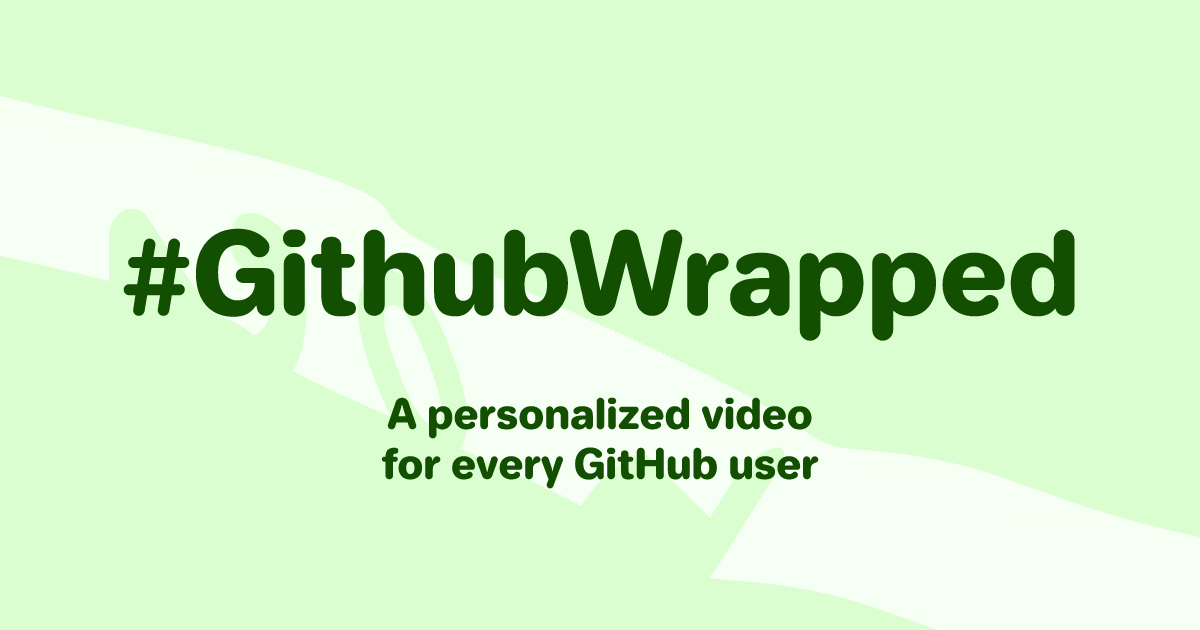
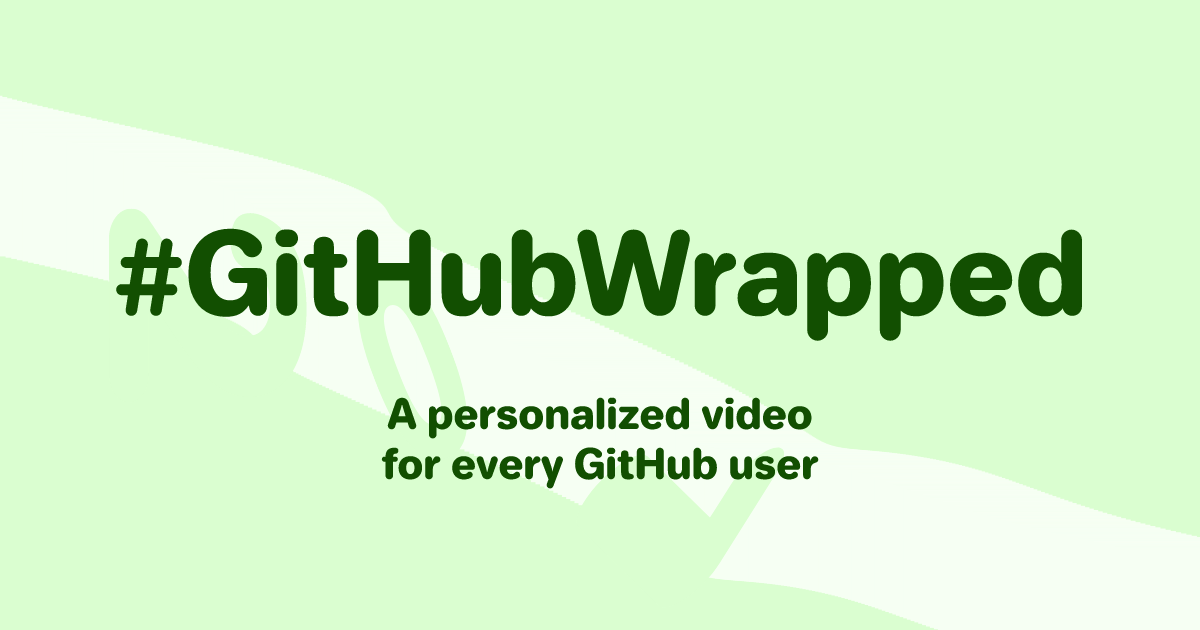
capitalize GitHub

Changed region(s): [[0.0925, 0.3619, 0.925, 0.5429]]

diff --git a/remotion/Flashcard.tsx b/remotion/Flashcard.tsx
@@ -31,7 +31,7 @@ export const Flashcard: React.FC = () => {
             fill="#124F01"
           />
           <path
-            d="M138.909 315.874C137.269 315.874 135.885 315.328 134.756 314.235C133.663 313.106 133.116 311.758 133.116 310.191C133.116 309.973 133.153 309.645 133.226 309.208L135.411 295.219H129.182C127.652 295.219 126.341 294.673 125.248 293.58C124.191 292.487 123.663 291.157 123.663 289.591C123.663 288.097 124.191 286.822 125.248 285.766C126.341 284.673 127.652 284.126 129.182 284.126H137.215L139.783 268.007H133.663C132.133 268.007 130.821 267.46 129.728 266.367C128.672 265.274 128.144 263.945 128.144 262.378C128.144 260.885 128.672 259.61 129.728 258.553C130.821 257.46 132.133 256.914 133.663 256.914H141.695L143.827 243.472C144.045 242.124 144.701 240.976 145.794 240.029C146.887 239.045 148.143 238.554 149.564 238.554C151.167 238.554 152.533 239.137 153.662 240.302C154.828 241.432 155.411 242.798 155.411 244.401C155.411 244.765 155.393 245.056 155.356 245.275L153.444 256.914H166.34L168.471 243.472C168.689 242.124 169.345 240.976 170.438 240.029C171.531 239.045 172.769 238.554 174.154 238.554C175.793 238.554 177.177 239.137 178.307 240.302C179.472 241.432 180.055 242.798 180.055 244.401C180.055 244.765 180.037 245.056 180.001 245.275L178.088 256.914H183.771C185.301 256.914 186.594 257.46 187.651 258.553C188.744 259.61 189.29 260.921 189.29 262.488C189.29 264.018 188.744 265.329 187.651 266.422C186.594 267.478 185.301 268.007 183.771 268.007H176.175L173.607 284.126H179.29C180.82 284.126 182.113 284.673 183.17 285.766C184.263 286.822 184.809 288.134 184.809 289.7C184.809 291.194 184.263 292.487 183.17 293.58C182.113 294.673 180.82 295.219 179.29 295.219H171.804L169.236 311.066C169.017 312.414 168.361 313.561 167.269 314.508C166.176 315.419 164.937 315.874 163.553 315.874C161.914 315.874 160.529 315.328 159.4 314.235C158.307 313.106 157.761 311.74 157.761 310.137C157.761 309.736 157.779 309.426 157.815 309.208L160.056 295.219H147.214L144.592 311.066C144.373 312.414 143.717 313.561 142.624 314.508C141.531 315.419 140.293 315.874 138.909 315.874ZM151.531 268.007L148.963 284.126H161.859L164.427 268.007H151.531ZM233.059 316.803C225.737 316.803 219.271 315.128 213.661 311.776C208.087 308.425 203.734 303.525 200.601 297.077C197.468 290.593 195.902 282.833 195.902 273.799C195.902 264.546 197.669 256.531 201.202 249.756C204.736 242.943 209.654 237.734 215.956 234.128C222.258 230.521 229.489 228.718 237.649 228.718C244.28 228.718 250.072 229.811 255.026 231.996C259.98 234.182 264.079 237.224 267.321 241.122C268.013 241.96 268.541 242.943 268.906 244.073C269.27 245.202 269.452 246.349 269.452 247.515C269.452 249.264 268.997 250.903 268.086 252.433C267.212 253.927 266.009 255.129 264.479 256.04C262.986 256.914 261.365 257.351 259.616 257.351C257.795 257.351 256.119 256.896 254.589 255.985C253.059 255.038 251.857 253.817 250.983 252.324C249.598 249.883 247.831 248.043 245.682 246.805C243.533 245.566 240.855 244.947 237.649 244.947C233.97 244.947 230.655 245.912 227.704 247.843C224.754 249.774 222.404 252.797 220.655 256.914C218.943 261.03 218.087 266.222 218.087 272.487C218.087 278.79 218.961 284.017 220.71 288.17C222.459 292.323 224.79 295.401 227.704 297.405C230.619 299.372 233.861 300.356 237.431 300.356C241.183 300.356 244.352 299.591 246.939 298.06C249.562 296.53 251.529 294.509 252.84 291.995C254.152 289.481 254.808 286.786 254.808 283.908V282.979H243.168C241.857 282.979 240.618 282.651 239.453 281.995C238.323 281.303 237.413 280.392 236.721 279.263C236.065 278.097 235.737 276.841 235.737 275.493C235.737 274.181 236.065 272.961 236.721 271.832C237.413 270.702 238.323 269.81 239.453 269.154C240.618 268.462 241.857 268.116 243.168 268.116H264.862C267.958 268.116 270.308 268.935 271.911 270.575C273.55 272.178 274.37 274.527 274.37 277.624V307.186C274.37 308.752 273.969 310.21 273.168 311.557C272.403 312.869 271.346 313.925 269.998 314.727C268.651 315.492 267.193 315.874 265.627 315.874C263.514 315.874 261.656 315.219 260.053 313.907C258.45 312.559 257.449 310.865 257.048 308.825L256.447 305.82H255.9C253.387 309.536 250.363 312.304 246.83 314.126C243.296 315.911 238.706 316.803 233.059 316.803ZM294.26 315.874C292.366 315.874 290.617 315.419 289.014 314.508C287.448 313.561 286.191 312.286 285.244 310.683C284.297 309.08 283.823 307.35 283.823 305.492V263.526C283.823 261.631 284.297 259.901 285.244 258.335C286.191 256.732 287.448 255.457 289.014 254.51C290.617 253.562 292.366 253.089 294.26 253.089C296.118 253.089 297.848 253.562 299.451 254.51C301.054 255.457 302.311 256.732 303.222 258.335C304.169 259.901 304.642 261.631 304.642 263.526V305.492C304.642 307.35 304.169 309.08 303.222 310.683C302.275 312.25 301 313.506 299.397 314.454C297.83 315.401 296.118 315.874 294.26 315.874ZM291.692 247.078C290.126 247.078 288.668 246.696 287.32 245.931C285.973 245.129 284.898 244.054 284.097 242.707C283.332 241.359 282.949 239.902 282.949 238.335C282.949 236.769 283.332 235.311 284.097 233.964C284.898 232.616 285.973 231.559 287.32 230.794C288.668 229.993 290.126 229.592 291.692 229.592H296.828C298.395 229.592 299.852 229.993 301.2 230.794C302.548 231.559 303.604 232.616 304.369 233.964C305.171 235.311 305.571 236.769 305.571 238.335C305.571 239.902 305.171 241.359 304.369 242.707C303.604 244.054 302.548 245.129 301.2 245.931C299.852 246.696 298.395 247.078 296.828 247.078H291.692ZM340.707 316.366C335.899 316.366 332.074 315.565 329.232 313.962C326.391 312.322 324.351 309.918 323.112 306.749C321.873 303.579 321.254 299.499 321.254 294.509V267.788H318.139C316.901 267.788 315.753 267.478 314.697 266.859C313.64 266.24 312.803 265.402 312.183 264.345C311.6 263.289 311.309 262.16 311.309 260.958C311.309 259.027 311.965 257.387 313.276 256.04C314.624 254.692 316.245 254.018 318.139 254.018H321.254V246.313C321.254 243.18 322.201 240.812 324.096 239.209C325.99 237.57 328.431 236.75 331.418 236.75C334.405 236.75 336.809 237.57 338.631 239.209C340.452 240.812 341.363 243.18 341.363 246.313V254.018H347.975C349.213 254.018 350.361 254.327 351.417 254.947C352.474 255.566 353.293 256.404 353.876 257.46C354.496 258.48 354.805 259.61 354.805 260.848C354.805 262.087 354.496 263.234 353.876 264.291C353.293 265.347 352.474 266.203 351.417 266.859C350.361 267.478 349.213 267.788 347.975 267.788H341.855V292.705C341.855 294.891 342.183 296.567 342.838 297.733C343.53 298.898 344.368 299.7 345.352 300.137C346.372 300.574 347.665 300.938 349.232 301.23C353.712 302.068 355.953 304.49 355.953 308.497C355.953 311.521 354.605 313.597 351.909 314.727C349.25 315.82 345.516 316.366 340.707 316.366ZM374.258 315.874C372.364 315.874 370.615 315.419 369.013 314.508C367.446 313.561 366.189 312.286 365.242 310.683C364.295 309.08 363.821 307.35 363.821 305.492V240.029C363.821 238.135 364.295 236.404 365.242 234.838C366.189 233.235 367.446 231.96 369.013 231.013C370.615 230.066 372.364 229.592 374.258 229.592C376.116 229.592 377.847 230.066 379.45 231.013C381.052 231.96 382.309 233.235 383.22 234.838C384.167 236.404 384.641 238.135 384.641 240.029V263.307C386.171 260.138 388.448 257.57 391.471 255.602C394.495 253.635 398.302 252.652 402.892 252.652C410.323 252.652 415.751 254.746 419.175 258.936C422.636 263.125 424.367 268.935 424.367 276.367V305.492C424.367 307.35 423.893 309.08 422.946 310.683C421.999 312.25 420.724 313.506 419.121 314.454C417.554 315.401 415.842 315.874 413.984 315.874C412.09 315.874 410.341 315.419 408.738 314.508C407.172 313.561 405.915 312.286 404.968 310.683C404.021 309.08 403.547 307.35 403.547 305.492V279.646C403.547 275.456 402.655 272.542 400.87 270.903C399.121 269.263 397.081 268.444 394.75 268.444C392.018 268.444 389.65 269.445 387.646 271.449C385.642 273.416 384.641 277.005 384.641 282.214V305.492C384.641 307.35 384.167 309.08 383.22 310.683C382.273 312.25 380.998 313.506 379.395 314.454C377.828 315.401 376.116 315.874 374.258 315.874ZM455.568 316.366C447.954 316.366 442.472 314.235 439.12 309.973C435.769 305.711 434.093 299.955 434.093 292.705V263.526C434.093 261.631 434.567 259.901 435.514 258.335C436.461 256.732 437.718 255.457 439.284 254.51C440.887 253.562 442.636 253.089 444.53 253.089C446.388 253.089 448.118 253.562 449.721 254.51C451.324 255.457 452.581 256.732 453.492 258.335C454.439 259.901 454.912 261.631 454.912 263.526V289.481C454.912 293.671 455.75 296.603 457.426 298.279C459.138 299.955 461.069 300.793 463.218 300.793C466.132 300.793 468.446 299.645 470.158 297.35C471.87 295.019 472.726 291.649 472.726 287.241V263.526C472.726 261.631 473.181 259.901 474.092 258.335C475.039 256.732 476.314 255.457 477.917 254.51C479.52 253.562 481.25 253.089 483.108 253.089C485.003 253.089 486.733 253.562 488.299 254.51C489.902 255.457 491.177 256.732 492.125 258.335C493.072 259.901 493.545 261.631 493.545 263.526V306.257C493.545 308.006 493.108 309.627 492.234 311.12C491.36 312.577 490.176 313.743 488.682 314.617C487.188 315.455 485.549 315.874 483.764 315.874C482.052 315.874 480.449 315.455 478.955 314.617C477.498 313.743 476.333 312.577 475.458 311.12C474.584 309.627 474.147 308.006 474.147 306.257V303.907C472.471 307.623 470.103 310.629 467.043 312.924C464.02 315.219 460.194 316.366 455.568 316.366ZM541.632 316.366C536.787 316.366 532.998 315.601 530.266 314.071C527.534 312.541 525.257 310.647 523.435 308.388C522.962 310.537 521.814 312.322 519.993 313.743C518.171 315.164 516.095 315.874 513.763 315.874C512.051 315.874 510.467 315.455 509.009 314.617C507.552 313.78 506.387 312.632 505.512 311.175C504.674 309.718 504.255 308.115 504.255 306.366V240.029C504.255 238.135 504.729 236.404 505.676 234.838C506.623 233.235 507.88 231.96 509.447 231.013C511.049 230.066 512.798 229.592 514.692 229.592C516.55 229.592 518.281 230.066 519.883 231.013C521.486 231.96 522.743 233.235 523.654 234.838C524.601 236.404 525.075 238.135 525.075 240.029V262.761C526.641 259.883 528.845 257.479 531.686 255.548C534.528 253.617 538.225 252.652 542.779 252.652C548.316 252.652 552.961 254.018 556.713 256.75C560.502 259.482 563.325 263.161 565.183 267.788C567.041 272.414 567.97 277.587 567.97 283.307C567.97 290.01 566.822 295.857 564.527 300.847C562.232 305.838 559.081 309.681 555.074 312.377C551.067 315.036 546.586 316.366 541.632 316.366ZM535.73 302.377C537.807 302.377 539.701 301.74 541.413 300.465C543.125 299.19 544.491 297.223 545.511 294.563C546.531 291.868 547.041 288.498 547.041 284.454C547.041 280.447 546.531 277.168 545.511 274.618C544.491 272.068 543.143 270.229 541.468 269.099C539.828 267.934 537.989 267.351 535.949 267.351C532.451 267.351 529.665 268.772 527.588 271.613C525.548 274.418 524.528 278.698 524.528 284.454C524.528 290.72 525.548 295.274 527.588 298.115C529.665 300.957 532.379 302.377 535.73 302.377ZM599.991 315.874C597.441 315.874 595.055 315.328 592.833 314.235C590.647 313.142 588.789 311.649 587.259 309.754C585.729 307.86 584.709 305.729 584.199 303.361L570.21 241.34C570.064 240.83 569.992 240.047 569.992 238.991C569.992 237.242 570.392 235.658 571.194 234.237C572.032 232.78 573.143 231.65 574.527 230.849C575.911 230.011 577.423 229.592 579.062 229.592C581.576 229.592 583.744 230.321 585.565 231.778C587.423 233.235 588.57 235.056 589.008 237.242L600.428 290.738L613.98 238.335C614.635 235.676 616.02 233.563 618.133 231.996C620.282 230.394 622.959 229.592 626.165 229.592C629.371 229.592 632.03 230.394 634.143 231.996C636.292 233.563 637.695 235.676 638.351 238.335L651.902 290.738L663.323 237.242C663.76 235.056 664.889 233.235 666.711 231.778C668.569 230.321 670.754 229.592 673.268 229.592C674.907 229.592 676.419 230.011 677.803 230.849C679.188 231.65 680.281 232.78 681.082 234.237C681.92 235.658 682.339 237.242 682.339 238.991C682.339 240.047 682.266 240.83 682.12 241.34L668.131 303.361C667.621 305.729 666.601 307.86 665.071 309.754C663.541 311.649 661.665 313.142 659.443 314.235C657.257 315.328 654.889 315.874 652.339 315.874C649.862 315.874 647.531 315.364 645.345 314.344C643.196 313.288 641.356 311.849 639.826 310.027C638.296 308.206 637.24 306.13 636.657 303.798L626.165 262.269L615.619 303.798C615.036 306.13 613.98 308.206 612.45 310.027C610.956 311.849 609.116 313.288 606.931 314.344C604.781 315.364 602.468 315.874 599.991 315.874ZM697.639 315.874C695.745 315.874 693.996 315.419 692.393 314.508C690.827 313.561 689.57 312.286 688.623 310.683C687.676 309.08 687.202 307.35 687.202 305.492V262.761C687.202 261.012 687.639 259.409 688.513 257.952C689.388 256.459 690.553 255.275 692.011 254.4C693.504 253.526 695.107 253.089 696.819 253.089C698.604 253.089 700.244 253.526 701.737 254.4C703.231 255.275 704.415 256.459 705.289 257.952C706.163 259.409 706.6 261.012 706.6 262.761V265.438H707.038C708.568 261.103 710.207 257.97 711.956 256.04C713.704 254.072 716.017 253.089 718.895 253.089C721.227 253.089 723.121 253.581 724.578 254.564C726.035 255.511 727.074 256.677 727.693 258.061C728.312 259.446 728.622 260.812 728.622 262.16C728.622 264.309 727.839 266.185 726.272 267.788C724.706 269.354 722.575 270.429 719.879 271.012C716.054 271.923 713.121 273.781 711.081 276.586C709.041 279.354 708.021 282.87 708.021 287.132V305.492C708.021 307.35 707.548 309.08 706.6 310.683C705.653 312.25 704.378 313.506 702.775 314.454C701.209 315.401 699.497 315.874 697.639 315.874ZM750.916 316.366C747.091 316.366 743.594 315.656 740.425 314.235C737.256 312.778 734.742 310.665 732.884 307.896C731.026 305.091 730.097 301.758 730.097 297.897C730.097 292.396 731.645 288.188 734.742 285.274C737.875 282.36 741.718 280.429 746.272 279.482C750.862 278.535 755.998 278.061 761.681 278.061H769.277C769.277 275.693 769.094 273.781 768.73 272.323C768.366 270.83 767.564 269.646 766.326 268.772C765.087 267.897 763.229 267.46 760.752 267.46C758.785 267.46 757.2 267.788 755.998 268.444C754.833 269.063 753.667 269.955 752.501 271.121C751.372 272.251 750.279 273.107 749.222 273.689C748.202 274.236 746.873 274.509 745.233 274.509C743.594 274.509 742.082 274.145 740.698 273.416C739.35 272.688 738.276 271.686 737.474 270.411C736.673 269.099 736.272 267.624 736.272 265.985C736.272 263.034 737.456 260.557 739.824 258.553C742.192 256.55 745.252 255.074 749.004 254.127C752.793 253.143 756.781 252.652 760.971 252.652C770.224 252.652 777.291 254.637 782.173 258.608C787.09 262.542 789.549 268.954 789.549 277.842V305.929C789.549 307.678 789.112 309.317 788.238 310.847C787.364 312.377 786.162 313.597 784.631 314.508C783.101 315.419 781.444 315.874 779.659 315.874C777.218 315.874 775.087 315.091 773.266 313.525C771.481 311.958 770.406 309.991 770.042 307.623C767.747 310.792 765.051 313.051 761.954 314.399C758.858 315.71 755.179 316.366 750.916 316.366ZM757.747 303.142C760.188 303.142 762.282 302.578 764.031 301.448C765.816 300.283 767.146 298.716 768.02 296.749C768.931 294.782 769.386 292.578 769.386 290.137V289.154H762.774C754.578 289.154 750.479 291.649 750.479 296.64C750.479 298.68 751.153 300.283 752.501 301.448C753.885 302.578 755.634 303.142 757.747 303.142ZM810.205 340.737C808.31 340.737 806.562 340.264 804.959 339.316C803.392 338.406 802.136 337.149 801.188 335.546C800.241 333.943 799.768 332.213 799.768 330.355V262.651C799.768 260.903 800.187 259.3 801.025 257.843C801.899 256.386 803.065 255.238 804.522 254.4C805.979 253.526 807.564 253.089 809.276 253.089C811.061 253.089 812.682 253.526 814.139 254.4C815.633 255.238 816.798 256.386 817.636 257.843C818.511 259.3 818.948 260.903 818.948 262.651V263.307C821.388 259.919 824.102 257.296 827.09 255.439C830.113 253.581 834.029 252.652 838.838 252.652C844.193 252.652 848.71 254.018 852.39 256.75C856.105 259.482 858.874 263.161 860.695 267.788C862.553 272.414 863.482 277.587 863.482 283.307C863.482 290.046 862.28 295.911 859.876 300.902C857.508 305.893 854.211 309.718 849.985 312.377C845.796 315.036 841.005 316.366 835.614 316.366C829.822 316.366 824.813 314.454 820.587 310.629V330.355C820.587 332.213 820.113 333.925 819.166 335.491C818.219 337.094 816.944 338.369 815.341 339.316C813.775 340.264 812.063 340.737 810.205 340.737ZM831.242 302.377C833.319 302.377 835.213 301.74 836.925 300.465C838.638 299.19 840.004 297.223 841.024 294.563C842.044 291.868 842.554 288.498 842.554 284.454C842.554 278.553 841.534 274.236 839.494 271.504C837.454 268.735 834.849 267.351 831.68 267.351C828.182 267.351 825.359 268.772 823.21 271.613C821.097 274.454 820.041 278.735 820.041 284.454C820.041 290.72 821.061 295.274 823.101 298.115C825.177 300.957 827.891 302.377 831.242 302.377ZM882.771 340.737C880.877 340.737 879.128 340.264 877.526 339.316C875.959 338.406 874.702 337.149 873.755 335.546C872.808 333.943 872.334 332.213 872.334 330.355V262.651C872.334 260.903 872.753 259.3 873.591 257.843C874.466 256.386 875.631 255.238 877.088 254.4C878.546 253.526 880.13 253.089 881.842 253.089C883.627 253.089 885.249 253.526 886.706 254.4C888.199 255.238 889.365 256.386 890.203 257.843C891.077 259.3 891.514 260.903 891.514 262.651V263.307C893.955 259.919 896.669 257.296 899.656 255.439C902.68 253.581 906.596 252.652 911.405 252.652C916.76 252.652 921.277 254.018 924.956 256.75C928.672 259.482 931.441 263.161 933.262 267.788C935.12 272.414 936.049 277.587 936.049 283.307C936.049 290.046 934.847 295.911 932.442 300.902C930.074 305.893 926.778 309.718 922.552 312.377C918.363 315.036 913.572 316.366 908.181 316.366C902.388 316.366 897.379 314.454 893.154 310.629V330.355C893.154 332.213 892.68 333.925 891.733 335.491C890.786 337.094 889.511 338.369 887.908 339.316C886.341 340.264 884.629 340.737 882.771 340.737ZM903.809 302.377C905.886 302.377 907.78 301.74 909.492 300.465C911.204 299.19 912.57 297.223 913.59 294.563C914.61 291.868 915.12 288.498 915.12 284.454C915.12 278.553 914.1 274.236 912.06 271.504C910.02 268.735 907.416 267.351 904.246 267.351C900.749 267.351 897.926 268.772 895.776 271.613C893.664 274.454 892.607 278.735 892.607 284.454C892.607 290.72 893.627 295.274 895.667 298.115C897.744 300.957 900.458 302.377 903.809 302.377ZM974.573 316.366C968.452 316.366 962.952 315.055 958.07 312.432C953.225 309.809 949.418 306.111 946.65 301.339C943.917 296.53 942.551 290.975 942.551 284.673C942.551 278.48 943.826 272.961 946.376 268.116C948.963 263.271 952.642 259.482 957.414 256.75C962.187 254.018 967.76 252.652 974.135 252.652C980.438 252.652 985.902 253.963 990.528 256.586C995.155 259.172 998.67 262.579 1001.07 266.804C1003.48 270.994 1004.68 275.456 1004.68 280.192C1004.68 283.58 1004.01 286.075 1002.66 287.678C1001.31 289.245 998.925 290.028 995.501 290.028H962.496C962.897 293.525 964.208 296.348 966.431 298.498C968.653 300.611 971.512 301.667 975.01 301.667C977.123 301.667 978.835 301.339 980.146 300.683C981.494 299.991 982.769 299.062 983.971 297.897C984.882 296.986 985.811 296.275 986.758 295.765C987.742 295.219 988.871 294.946 990.146 294.946C991.64 294.946 993.024 295.328 994.299 296.093C995.61 296.858 996.63 297.915 997.359 299.263C998.124 300.574 998.506 302.013 998.506 303.579C998.506 306.166 997.395 308.406 995.173 310.301C993.133 312.013 990.237 313.452 986.485 314.617C982.769 315.783 978.798 316.366 974.573 316.366ZM984.627 277.842C984.481 274.309 983.425 271.522 981.458 269.482C979.49 267.442 976.94 266.422 973.808 266.422C970.675 266.422 968.125 267.442 966.157 269.482C964.19 271.486 963.006 274.272 962.606 277.842H984.627ZM1037.08 316.366C1032.13 316.366 1027.65 315.036 1023.64 312.377C1019.64 309.681 1016.48 305.838 1014.19 300.847C1011.89 295.857 1010.75 290.01 1010.75 283.307C1010.75 277.587 1011.68 272.414 1013.53 267.788C1015.39 263.161 1018.2 259.482 1021.95 256.75C1025.74 254.018 1030.4 252.652 1035.94 252.652C1040.49 252.652 1044.19 253.617 1047.03 255.548C1049.87 257.479 1052.08 259.883 1053.64 262.761V240.029C1053.64 238.135 1054.1 236.404 1055.01 234.838C1055.95 233.235 1057.23 231.96 1058.83 231.013C1060.44 230.066 1062.17 229.592 1064.02 229.592C1065.92 229.592 1067.65 230.066 1069.22 231.013C1070.82 231.96 1072.09 233.235 1073.04 234.838C1073.99 236.404 1074.46 238.135 1074.46 240.029V306.366C1074.46 308.115 1074.02 309.718 1073.15 311.175C1072.31 312.632 1071.16 313.78 1069.71 314.617C1068.25 315.455 1066.67 315.874 1064.95 315.874C1062.62 315.874 1060.55 315.164 1058.72 313.743C1056.9 312.322 1055.77 310.537 1055.34 308.388C1054.17 309.809 1052.88 311.084 1051.46 312.213C1050.04 313.342 1048.12 314.308 1045.72 315.109C1043.35 315.947 1040.47 316.366 1037.08 316.366ZM1042.99 302.377C1046.34 302.377 1049.03 300.957 1051.07 298.115C1053.15 295.274 1054.19 290.72 1054.19 284.454C1054.19 278.698 1053.15 274.418 1051.07 271.613C1049.03 268.772 1046.26 267.351 1042.77 267.351C1040.73 267.351 1038.87 267.934 1037.19 269.099C1035.55 270.229 1034.23 272.068 1033.21 274.618C1032.19 277.168 1031.68 280.447 1031.68 284.454C1031.68 288.498 1032.19 291.868 1033.21 294.563C1034.23 297.223 1035.59 299.19 1037.3 300.465C1039.02 301.74 1040.91 302.377 1042.99 302.377Z"
+            d="M131.422 315.874C129.783 315.874 128.399 315.328 127.269 314.235C126.177 313.106 125.63 311.758 125.63 310.191C125.63 309.973 125.667 309.645 125.739 309.208L127.925 295.219H121.696C120.166 295.219 118.854 294.673 117.762 293.58C116.705 292.487 116.177 291.157 116.177 289.591C116.177 288.097 116.705 286.822 117.762 285.766C118.854 284.673 120.166 284.126 121.696 284.126H129.728L132.297 268.007H126.177C124.647 268.007 123.335 267.46 122.242 266.367C121.186 265.274 120.658 263.945 120.658 262.378C120.658 260.885 121.186 259.61 122.242 258.553C123.335 257.46 124.647 256.914 126.177 256.914H134.209L136.34 243.472C136.559 242.124 137.215 240.976 138.307 240.029C139.4 239.045 140.657 238.554 142.078 238.554C143.681 238.554 145.047 239.137 146.176 240.302C147.342 241.432 147.925 242.798 147.925 244.401C147.925 244.765 147.907 245.056 147.87 245.275L145.958 256.914H158.853L160.985 243.472C161.203 242.124 161.859 240.976 162.952 240.029C164.045 239.045 165.283 238.554 166.668 238.554C168.307 238.554 169.691 239.137 170.82 240.302C171.986 241.432 172.569 242.798 172.569 244.401C172.569 244.765 172.551 245.056 172.514 245.275L170.602 256.914H176.285C177.815 256.914 179.108 257.46 180.164 258.553C181.257 259.61 181.804 260.921 181.804 262.488C181.804 264.018 181.257 265.329 180.164 266.422C179.108 267.478 177.815 268.007 176.285 268.007H168.689L166.121 284.126H171.804C173.334 284.126 174.627 284.673 175.684 285.766C176.777 286.822 177.323 288.134 177.323 289.7C177.323 291.194 176.777 292.487 175.684 293.58C174.627 294.673 173.334 295.219 171.804 295.219H164.318L161.75 311.066C161.531 312.414 160.875 313.561 159.782 314.508C158.69 315.419 157.451 315.874 156.067 315.874C154.427 315.874 153.043 315.328 151.914 314.235C150.821 313.106 150.274 311.74 150.274 310.137C150.274 309.736 150.293 309.426 150.329 309.208L152.569 295.219H139.728L137.105 311.066C136.887 312.414 136.231 313.561 135.138 314.508C134.045 315.419 132.807 315.874 131.422 315.874ZM144.045 268.007L141.477 284.126H154.373L156.941 268.007H144.045ZM225.573 316.803C218.251 316.803 211.785 315.128 206.175 311.776C200.601 308.425 196.248 303.525 193.115 297.077C189.982 290.593 188.416 282.833 188.416 273.799C188.416 264.546 190.182 256.531 193.716 249.756C197.25 242.943 202.168 237.734 208.47 234.128C214.772 230.521 222.003 228.718 230.163 228.718C236.793 228.718 242.586 229.811 247.54 231.996C252.494 234.182 256.593 237.224 259.835 241.122C260.527 241.96 261.055 242.943 261.419 244.073C261.784 245.202 261.966 246.349 261.966 247.515C261.966 249.264 261.51 250.903 260.6 252.433C259.725 253.927 258.523 255.129 256.993 256.04C255.5 256.914 253.879 257.351 252.13 257.351C250.309 257.351 248.633 256.896 247.103 255.985C245.573 255.038 244.371 253.817 243.496 252.324C242.112 249.883 240.345 248.043 238.196 246.805C236.047 245.566 233.369 244.947 230.163 244.947C226.484 244.947 223.169 245.912 220.218 247.843C217.267 249.774 214.918 252.797 213.169 256.914C211.457 261.03 210.601 266.222 210.601 272.487C210.601 278.79 211.475 284.017 213.224 288.17C214.972 292.323 217.304 295.401 220.218 297.405C223.133 299.372 226.375 300.356 229.945 300.356C233.697 300.356 236.866 299.591 239.453 298.06C242.076 296.53 244.043 294.509 245.354 291.995C246.666 289.481 247.321 286.786 247.321 283.908V282.979H235.682C234.371 282.979 233.132 282.651 231.967 281.995C230.837 281.303 229.927 280.392 229.234 279.263C228.579 278.097 228.251 276.841 228.251 275.493C228.251 274.181 228.579 272.961 229.234 271.832C229.927 270.702 230.837 269.81 231.967 269.154C233.132 268.462 234.371 268.116 235.682 268.116H257.376C260.472 268.116 262.822 268.935 264.425 270.575C266.064 272.178 266.884 274.527 266.884 277.624V307.186C266.884 308.752 266.483 310.21 265.682 311.557C264.917 312.869 263.86 313.925 262.512 314.727C261.164 315.492 259.707 315.874 258.141 315.874C256.028 315.874 254.17 315.219 252.567 313.907C250.964 312.559 249.962 310.865 249.562 308.825L248.961 305.82H248.414C245.901 309.536 242.877 312.304 239.343 314.126C235.81 315.911 231.22 316.803 225.573 316.803ZM286.774 315.874C284.88 315.874 283.131 315.419 281.528 314.508C279.962 313.561 278.705 312.286 277.758 310.683C276.811 309.08 276.337 307.35 276.337 305.492V263.526C276.337 261.631 276.811 259.901 277.758 258.335C278.705 256.732 279.962 255.457 281.528 254.51C283.131 253.562 284.88 253.089 286.774 253.089C288.632 253.089 290.362 253.562 291.965 254.51C293.568 255.457 294.825 256.732 295.736 258.335C296.683 259.901 297.156 261.631 297.156 263.526V305.492C297.156 307.35 296.683 309.08 295.736 310.683C294.788 312.25 293.513 313.506 291.911 314.454C290.344 315.401 288.632 315.874 286.774 315.874ZM284.206 247.078C282.639 247.078 281.182 246.696 279.834 245.931C278.486 245.129 277.412 244.054 276.61 242.707C275.845 241.359 275.463 239.902 275.463 238.335C275.463 236.769 275.845 235.311 276.61 233.964C277.412 232.616 278.486 231.559 279.834 230.794C281.182 229.993 282.639 229.592 284.206 229.592H289.342C290.909 229.592 292.366 229.993 293.714 230.794C295.062 231.559 296.118 232.616 296.883 233.964C297.685 235.311 298.085 236.769 298.085 238.335C298.085 239.902 297.685 241.359 296.883 242.707C296.118 244.054 295.062 245.129 293.714 245.931C292.366 246.696 290.909 247.078 289.342 247.078H284.206ZM333.221 316.366C328.412 316.366 324.587 315.565 321.746 313.962C318.904 312.322 316.864 309.918 315.626 306.749C314.387 303.579 313.768 299.499 313.768 294.509V267.788H310.653C309.415 267.788 308.267 267.478 307.211 266.859C306.154 266.24 305.316 265.402 304.697 264.345C304.114 263.289 303.823 262.16 303.823 260.958C303.823 259.027 304.479 257.387 305.79 256.04C307.138 254.692 308.759 254.018 310.653 254.018H313.768V246.313C313.768 243.18 314.715 240.812 316.609 239.209C318.504 237.57 320.944 236.75 323.932 236.75C326.919 236.75 329.323 237.57 331.145 239.209C332.966 240.812 333.877 243.18 333.877 246.313V254.018H340.489C341.727 254.018 342.875 254.327 343.931 254.947C344.988 255.566 345.807 256.404 346.39 257.46C347.009 258.48 347.319 259.61 347.319 260.848C347.319 262.087 347.009 263.234 346.39 264.291C345.807 265.347 344.988 266.203 343.931 266.859C342.875 267.478 341.727 267.788 340.489 267.788H334.369V292.705C334.369 294.891 334.696 296.567 335.352 297.733C336.044 298.898 336.882 299.7 337.866 300.137C338.886 300.574 340.179 300.938 341.745 301.23C346.226 302.068 348.467 304.49 348.467 308.497C348.467 311.521 347.119 313.597 344.423 314.727C341.764 315.82 338.03 316.366 333.221 316.366ZM367.537 315.874C365.606 315.874 363.821 315.401 362.182 314.454C360.543 313.47 359.231 312.159 358.248 310.519C357.301 308.88 356.827 307.095 356.827 305.164V240.357C356.827 238.39 357.301 236.586 358.248 234.947C359.231 233.308 360.543 232.015 362.182 231.067C363.821 230.084 365.606 229.592 367.537 229.592C369.504 229.592 371.308 230.084 372.947 231.067C374.586 232.015 375.879 233.308 376.827 234.947C377.81 236.586 378.302 238.39 378.302 240.357V263.089H409.176V240.357C409.176 238.39 409.649 236.586 410.596 234.947C411.58 233.308 412.891 232.015 414.531 231.067C416.17 230.084 417.973 229.592 419.94 229.592C421.871 229.592 423.656 230.084 425.295 231.067C426.935 232.015 428.228 233.308 429.175 234.947C430.159 236.586 430.651 238.39 430.651 240.357V305.164C430.651 307.095 430.159 308.88 429.175 310.519C428.228 312.159 426.935 313.47 425.295 314.454C423.656 315.401 421.871 315.874 419.94 315.874C417.973 315.874 416.17 315.401 414.531 314.454C412.891 313.47 411.58 312.159 410.596 310.519C409.649 308.88 409.176 307.095 409.176 305.164V280.52H378.302V305.164C378.302 307.095 377.81 308.88 376.827 310.519C375.879 312.159 374.586 313.47 372.947 314.454C371.308 315.401 369.504 315.874 367.537 315.874ZM463.054 316.366C455.44 316.366 449.958 314.235 446.606 309.973C443.255 305.711 441.579 299.955 441.579 292.705V263.526C441.579 261.631 442.053 259.901 443 258.335C443.947 256.732 445.204 255.457 446.77 254.51C448.373 253.562 450.122 253.089 452.016 253.089C453.874 253.089 455.604 253.562 457.207 254.51C458.81 255.457 460.067 256.732 460.978 258.335C461.925 259.901 462.398 261.631 462.398 263.526V289.481C462.398 293.671 463.236 296.603 464.912 298.279C466.624 299.955 468.555 300.793 470.704 300.793C473.619 300.793 475.932 299.645 477.644 297.35C479.356 295.019 480.212 291.649 480.212 287.241V263.526C480.212 261.631 480.668 259.901 481.578 258.335C482.525 256.732 483.8 255.457 485.403 254.51C487.006 253.562 488.737 253.089 490.595 253.089C492.489 253.089 494.219 253.562 495.786 254.51C497.389 255.457 498.664 256.732 499.611 258.335C500.558 259.901 501.031 261.631 501.031 263.526V306.257C501.031 308.006 500.594 309.627 499.72 311.12C498.846 312.577 497.662 313.743 496.168 314.617C494.675 315.455 493.035 315.874 491.25 315.874C489.538 315.874 487.935 315.455 486.442 314.617C484.984 313.743 483.819 312.577 482.944 311.12C482.07 309.627 481.633 308.006 481.633 306.257V303.907C479.957 307.623 477.589 310.629 474.529 312.924C471.506 315.219 467.681 316.366 463.054 316.366ZM549.118 316.366C544.273 316.366 540.484 315.601 537.752 314.071C535.02 312.541 532.743 310.647 530.921 308.388C530.448 310.537 529.3 312.322 527.479 313.743C525.657 315.164 523.581 315.874 521.25 315.874C519.537 315.874 517.953 315.455 516.496 314.617C515.038 313.78 513.873 312.632 512.998 311.175C512.161 309.718 511.742 308.115 511.742 306.366V240.029C511.742 238.135 512.215 236.404 513.162 234.838C514.109 233.235 515.366 231.96 516.933 231.013C518.536 230.066 520.284 229.592 522.178 229.592C524.036 229.592 525.767 230.066 527.37 231.013C528.973 231.96 530.229 233.235 531.14 234.838C532.087 236.404 532.561 238.135 532.561 240.029V262.761C534.127 259.883 536.331 257.479 539.173 255.548C542.014 253.617 545.712 252.652 550.265 252.652C555.802 252.652 560.447 254.018 564.199 256.75C567.988 259.482 570.811 263.161 572.669 267.788C574.527 272.414 575.456 277.587 575.456 283.307C575.456 290.01 574.308 295.857 572.013 300.847C569.718 305.838 566.567 309.681 562.56 312.377C558.553 315.036 554.072 316.366 549.118 316.366ZM543.216 302.377C545.293 302.377 547.187 301.74 548.899 300.465C550.611 299.19 551.977 297.223 552.997 294.563C554.017 291.868 554.527 288.498 554.527 284.454C554.527 280.447 554.017 277.168 552.997 274.618C551.977 272.068 550.63 270.229 548.954 269.099C547.315 267.934 545.475 267.351 543.435 267.351C539.938 267.351 537.151 268.772 535.074 271.613C533.034 274.418 532.014 278.698 532.014 284.454C532.014 290.72 533.034 295.274 535.074 298.115C537.151 300.957 539.865 302.377 543.216 302.377ZM607.477 315.874C604.927 315.874 602.541 315.328 600.319 314.235C598.133 313.142 596.275 311.649 594.745 309.754C593.215 307.86 592.195 305.729 591.685 303.361L577.696 241.34C577.551 240.83 577.478 240.047 577.478 238.991C577.478 237.242 577.878 235.658 578.68 234.237C579.518 232.78 580.629 231.65 582.013 230.849C583.397 230.011 584.909 229.592 586.549 229.592C589.062 229.592 591.23 230.321 593.051 231.778C594.909 233.235 596.057 235.056 596.494 237.242L607.914 290.738L621.466 238.335C622.122 235.676 623.506 233.563 625.619 231.996C627.768 230.394 630.446 229.592 633.651 229.592C636.857 229.592 639.516 230.394 641.629 231.996C643.779 233.563 645.181 235.676 645.837 238.335L659.388 290.738L670.809 237.242C671.246 235.056 672.375 233.235 674.197 231.778C676.055 230.321 678.24 229.592 680.754 229.592C682.393 229.592 683.905 230.011 685.29 230.849C686.674 231.65 687.767 232.78 688.568 234.237C689.406 235.658 689.825 237.242 689.825 238.991C689.825 240.047 689.752 240.83 689.606 241.34L675.618 303.361C675.108 305.729 674.088 307.86 672.558 309.754C671.028 311.649 669.151 313.142 666.929 314.235C664.744 315.328 662.376 315.874 659.826 315.874C657.348 315.874 655.017 315.364 652.831 314.344C650.682 313.288 648.842 311.849 647.312 310.027C645.782 308.206 644.726 306.13 644.143 303.798L633.651 262.269L623.105 303.798C622.522 306.13 621.466 308.206 619.936 310.027C618.442 311.849 616.603 313.288 614.417 314.344C612.268 315.364 609.954 315.874 607.477 315.874ZM705.125 315.874C703.231 315.874 701.482 315.419 699.879 314.508C698.313 313.561 697.056 312.286 696.109 310.683C695.162 309.08 694.688 307.35 694.688 305.492V262.761C694.688 261.012 695.125 259.409 696 257.952C696.874 256.459 698.04 255.275 699.497 254.4C700.99 253.526 702.593 253.089 704.305 253.089C706.09 253.089 707.73 253.526 709.223 254.4C710.717 255.275 711.901 256.459 712.775 257.952C713.649 259.409 714.087 261.012 714.087 262.761V265.438H714.524C716.054 261.103 717.693 257.97 719.442 256.04C721.19 254.072 723.504 253.089 726.381 253.089C728.713 253.089 730.607 253.581 732.064 254.564C733.522 255.511 734.56 256.677 735.179 258.061C735.798 259.446 736.108 260.812 736.108 262.16C736.108 264.309 735.325 266.185 733.758 267.788C732.192 269.354 730.061 270.429 727.365 271.012C723.54 271.923 720.607 273.781 718.567 276.586C716.527 279.354 715.507 282.87 715.507 287.132V305.492C715.507 307.35 715.034 309.08 714.087 310.683C713.139 312.25 711.864 313.506 710.262 314.454C708.695 315.401 706.983 315.874 705.125 315.874ZM758.403 316.366C754.578 316.366 751.08 315.656 747.911 314.235C744.742 312.778 742.228 310.665 740.37 307.896C738.512 305.091 737.583 301.758 737.583 297.897C737.583 292.396 739.132 288.188 742.228 285.274C745.361 282.36 749.204 280.429 753.758 279.482C758.348 278.535 763.484 278.061 769.167 278.061H776.763C776.763 275.693 776.581 273.781 776.216 272.323C775.852 270.83 775.051 269.646 773.812 268.772C772.574 267.897 770.716 267.46 768.238 267.46C766.271 267.46 764.687 267.788 763.484 268.444C762.319 269.063 761.153 269.955 759.987 271.121C758.858 272.251 757.765 273.107 756.709 273.689C755.689 274.236 754.359 274.509 752.72 274.509C751.08 274.509 749.569 274.145 748.184 273.416C746.836 272.688 745.762 271.686 744.96 270.411C744.159 269.099 743.758 267.624 743.758 265.985C743.758 263.034 744.942 260.557 747.31 258.553C749.678 256.55 752.738 255.074 756.49 254.127C760.279 253.143 764.268 252.652 768.457 252.652C777.71 252.652 784.777 254.637 789.659 258.608C794.577 262.542 797.036 268.954 797.036 277.842V305.929C797.036 307.678 796.598 309.317 795.724 310.847C794.85 312.377 793.648 313.597 792.118 314.508C790.588 315.419 788.93 315.874 787.145 315.874C784.704 315.874 782.573 315.091 780.752 313.525C778.967 311.958 777.892 309.991 777.528 307.623C775.233 310.792 772.537 313.051 769.441 314.399C766.344 315.71 762.665 316.366 758.403 316.366ZM765.233 303.142C767.674 303.142 769.768 302.578 771.517 301.448C773.302 300.283 774.632 298.716 775.506 296.749C776.417 294.782 776.872 292.578 776.872 290.137V289.154H770.26C762.064 289.154 757.965 291.649 757.965 296.64C757.965 298.68 758.639 300.283 759.987 301.448C761.372 302.578 763.12 303.142 765.233 303.142ZM817.691 340.737C815.797 340.737 814.048 340.264 812.445 339.316C810.879 338.406 809.622 337.149 808.675 335.546C807.727 333.943 807.254 332.213 807.254 330.355V262.651C807.254 260.903 807.673 259.3 808.511 257.843C809.385 256.386 810.551 255.238 812.008 254.4C813.465 253.526 815.05 253.089 816.762 253.089C818.547 253.089 820.168 253.526 821.625 254.4C823.119 255.238 824.284 256.386 825.122 257.843C825.997 259.3 826.434 260.903 826.434 262.651V263.307C828.875 259.919 831.589 257.296 834.576 255.439C837.599 253.581 841.515 252.652 846.324 252.652C851.679 252.652 856.196 254.018 859.876 256.75C863.591 259.482 866.36 263.161 868.181 267.788C870.039 272.414 870.968 277.587 870.968 283.307C870.968 290.046 869.766 295.911 867.362 300.902C864.994 305.893 861.697 309.718 857.471 312.377C853.282 315.036 848.492 316.366 843.1 316.366C837.308 316.366 832.299 314.454 828.073 310.629V330.355C828.073 332.213 827.6 333.925 826.652 335.491C825.705 337.094 824.43 338.369 822.827 339.316C821.261 340.264 819.549 340.737 817.691 340.737ZM838.729 302.377C840.805 302.377 842.699 301.74 844.412 300.465C846.124 299.19 847.49 297.223 848.51 294.563C849.53 291.868 850.04 288.498 850.04 284.454C850.04 278.553 849.02 274.236 846.98 271.504C844.94 268.735 842.335 267.351 839.166 267.351C835.669 267.351 832.845 268.772 830.696 271.613C828.583 274.454 827.527 278.735 827.527 284.454C827.527 290.72 828.547 295.274 830.587 298.115C832.663 300.957 835.377 302.377 838.729 302.377ZM890.257 340.737C888.363 340.737 886.615 340.264 885.012 339.316C883.445 338.406 882.188 337.149 881.241 335.546C880.294 333.943 879.821 332.213 879.821 330.355V262.651C879.821 260.903 880.239 259.3 881.077 257.843C881.952 256.386 883.117 255.238 884.575 254.4C886.032 253.526 887.616 253.089 889.329 253.089C891.114 253.089 892.735 253.526 894.192 254.4C895.685 255.238 896.851 256.386 897.689 257.843C898.563 259.3 899 260.903 899 262.651V263.307C901.441 259.919 904.155 257.296 907.142 255.439C910.166 253.581 914.082 252.652 918.891 252.652C924.246 252.652 928.763 254.018 932.442 256.75C936.158 259.482 938.927 263.161 940.748 267.788C942.606 272.414 943.535 277.587 943.535 283.307C943.535 290.046 942.333 295.911 939.928 300.902C937.561 305.893 934.264 309.718 930.038 312.377C925.849 315.036 921.058 316.366 915.667 316.366C909.875 316.366 904.866 314.454 900.64 310.629V330.355C900.64 332.213 900.166 333.925 899.219 335.491C898.272 337.094 896.997 338.369 895.394 339.316C893.828 340.264 892.115 340.737 890.257 340.737ZM911.295 302.377C913.372 302.377 915.266 301.74 916.978 300.465C918.69 299.19 920.056 297.223 921.076 294.563C922.096 291.868 922.606 288.498 922.606 284.454C922.606 278.553 921.586 274.236 919.546 271.504C917.506 268.735 914.902 267.351 911.732 267.351C908.235 267.351 905.412 268.772 903.263 271.613C901.15 274.454 900.093 278.735 900.093 284.454C900.093 290.72 901.113 295.274 903.153 298.115C905.23 300.957 907.944 302.377 911.295 302.377ZM982.059 316.366C975.939 316.366 970.438 315.055 965.556 312.432C960.711 309.809 956.904 306.111 954.136 301.339C951.404 296.53 950.038 290.975 950.038 284.673C950.038 278.48 951.313 272.961 953.863 268.116C956.449 263.271 960.128 259.482 964.901 256.75C969.673 254.018 975.246 252.652 981.622 252.652C987.924 252.652 993.388 253.963 998.015 256.586C1002.64 259.172 1006.16 262.579 1008.56 266.804C1010.97 270.994 1012.17 275.456 1012.17 280.192C1012.17 283.58 1011.49 286.075 1010.15 287.678C1008.8 289.245 1006.41 290.028 1002.99 290.028H969.982C970.383 293.525 971.695 296.348 973.917 298.498C976.139 300.611 978.999 301.667 982.496 301.667C984.609 301.667 986.321 301.339 987.632 300.683C988.98 299.991 990.255 299.062 991.457 297.897C992.368 296.986 993.297 296.275 994.244 295.765C995.228 295.219 996.357 294.946 997.632 294.946C999.126 294.946 1000.51 295.328 1001.78 296.093C1003.1 296.858 1004.12 297.915 1004.85 299.263C1005.61 300.574 1005.99 302.013 1005.99 303.579C1005.99 306.166 1004.88 308.406 1002.66 310.301C1000.62 312.013 997.723 313.452 993.971 314.617C990.255 315.783 986.284 316.366 982.059 316.366ZM992.113 277.842C991.967 274.309 990.911 271.522 988.944 269.482C986.977 267.442 984.427 266.422 981.294 266.422C978.161 266.422 975.611 267.442 973.644 269.482C971.676 271.486 970.492 274.272 970.092 277.842H992.113ZM1044.57 316.366C1039.62 316.366 1035.14 315.036 1031.13 312.377C1027.12 309.681 1023.97 305.838 1021.68 300.847C1019.38 295.857 1018.23 290.01 1018.23 283.307C1018.23 277.587 1019.16 272.414 1021.02 267.788C1022.88 263.161 1025.68 259.482 1029.43 256.75C1033.22 254.018 1037.89 252.652 1043.42 252.652C1047.98 252.652 1051.67 253.617 1054.52 255.548C1057.36 257.479 1059.56 259.883 1061.13 262.761V240.029C1061.13 238.135 1061.58 236.404 1062.49 234.838C1063.44 233.235 1064.72 231.96 1066.32 231.013C1067.92 230.066 1069.65 229.592 1071.51 229.592C1073.4 229.592 1075.13 230.066 1076.7 231.013C1078.3 231.96 1079.58 233.235 1080.53 234.838C1081.47 236.404 1081.95 238.135 1081.95 240.029V306.366C1081.95 308.115 1081.51 309.718 1080.64 311.175C1079.8 312.632 1078.65 313.78 1077.19 314.617C1075.74 315.455 1074.15 315.874 1072.44 315.874C1070.11 315.874 1068.03 315.164 1066.21 313.743C1064.39 312.322 1063.26 310.537 1062.82 308.388C1061.66 309.809 1060.36 311.084 1058.94 312.213C1057.52 313.342 1055.61 314.308 1053.2 315.109C1050.84 315.947 1047.96 316.366 1044.57 316.366ZM1050.47 302.377C1053.82 302.377 1056.52 300.957 1058.56 298.115C1060.64 295.274 1061.67 290.72 1061.67 284.454C1061.67 278.698 1060.64 274.418 1058.56 271.613C1056.52 268.772 1053.75 267.351 1050.25 267.351C1048.21 267.351 1046.36 267.934 1044.68 269.099C1043.04 270.229 1041.71 272.068 1040.69 274.618C1039.67 277.168 1039.16 280.447 1039.16 284.454C1039.16 288.498 1039.67 291.868 1040.69 294.563C1041.71 297.223 1043.08 299.19 1044.79 300.465C1046.5 301.74 1048.4 302.377 1050.47 302.377Z"
             fill="#124F01"
           />
         </svg>{" "}
